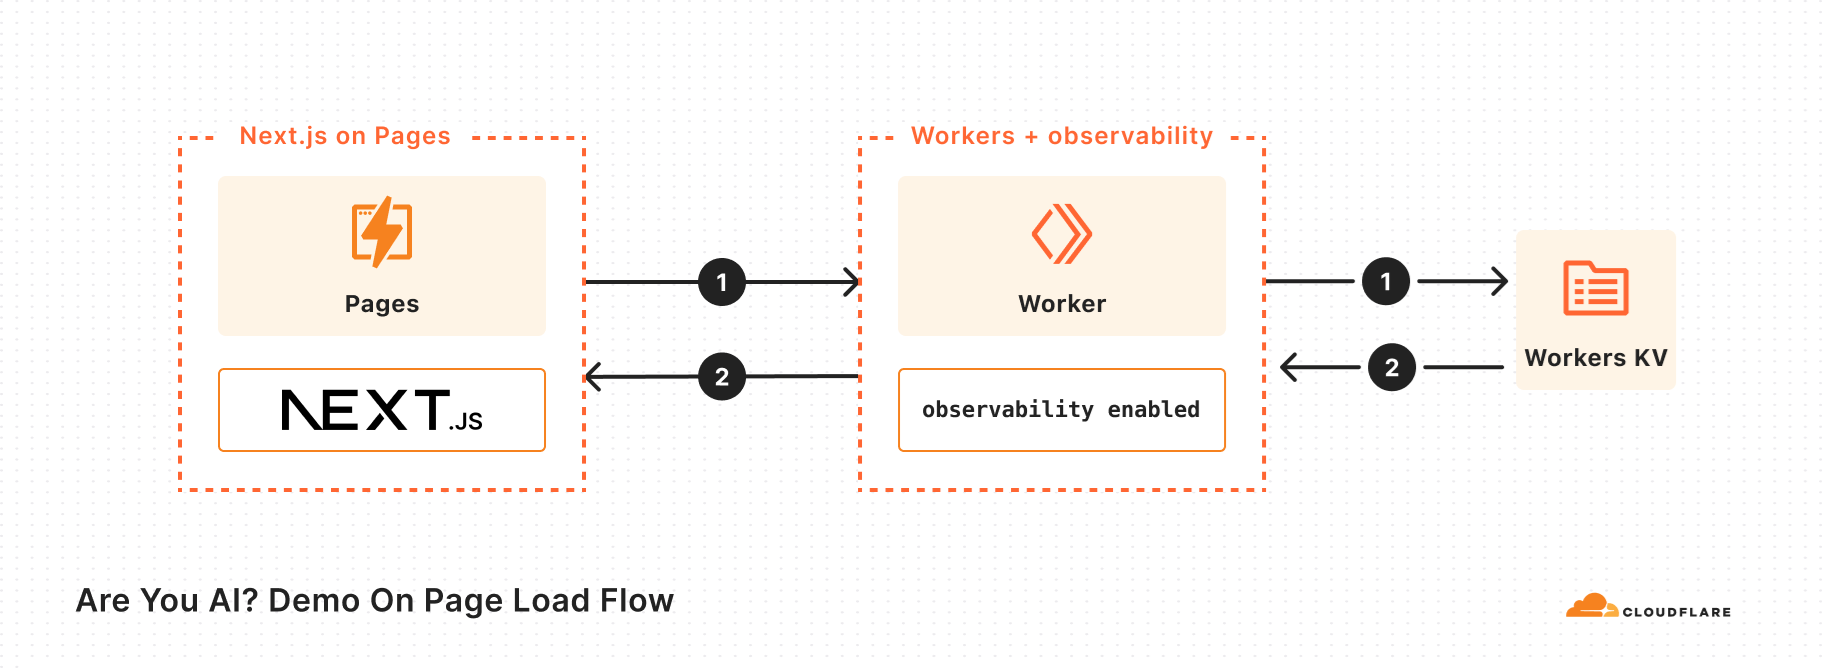
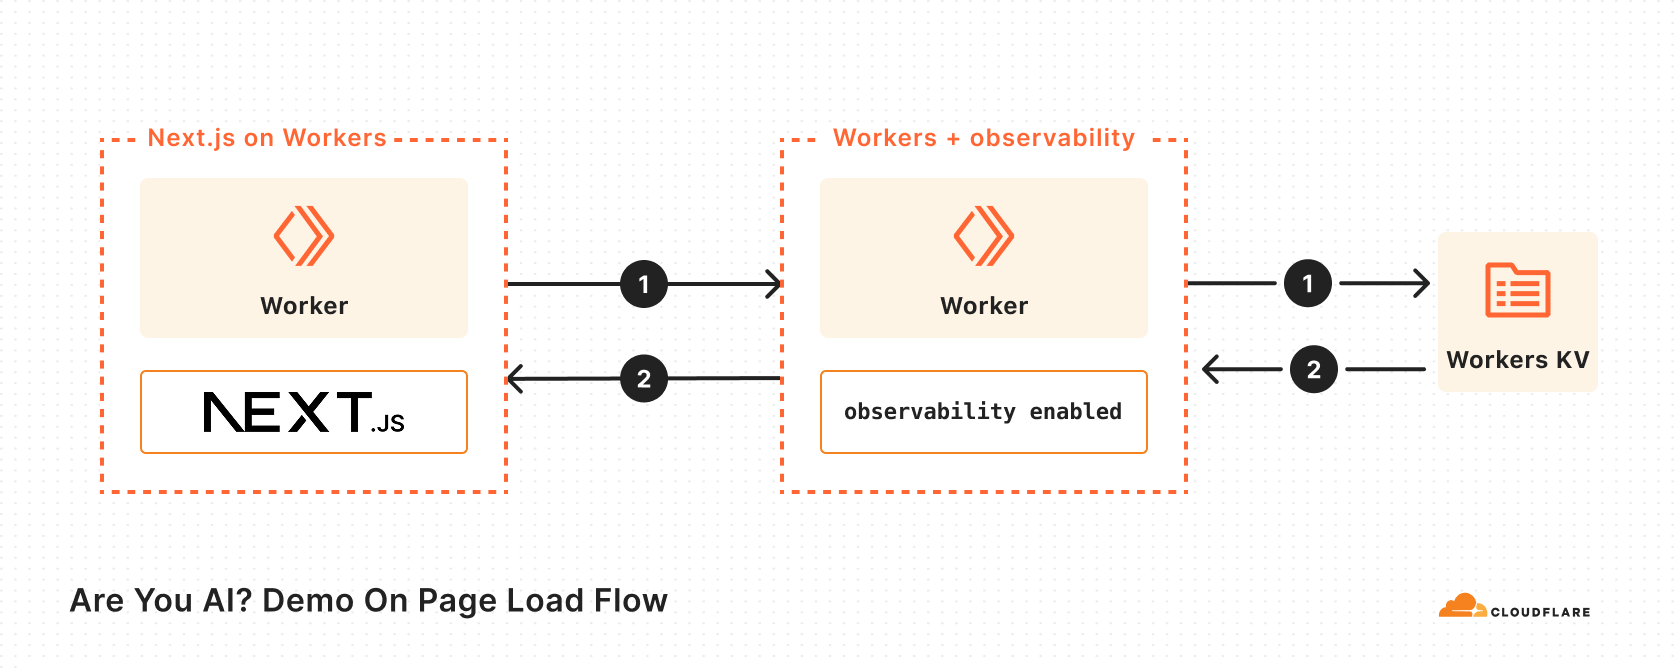
Update architectures to reflect move from Pages to Workers

diff --git a/frontend/content/fullstackAppMarkdown.ts b/frontend/content/fullstackAppMarkdown.ts
@@ -1,6 +1,6 @@
 export const fullstackAppMarkdown = `The Are You AI? app is powered entirely by the Cloudflare Developer Platform. Learn about all the different Cloudflare services that make this app possible.
 
-**Pages**: The Next.js app that powers the Are You AI? website is hosted on Cloudflare Pages.  
+**Workers Assets**: The Next.js app that powers the Are You AI? website is hosted on Cloudflare Workers.  
 **Workers**: The API is built on top of Cloudflare Workers to have a global Serverless API. Cloudflare's in house Observability tool is enabled as well to monitor the API.  
 **Workers AI**: The app makes use of Workers AI to generate images, describe images, and create text-embeddings based on how you and the AI describe the image.  
 **Vectorize**: Cloudflare's Vector database is use to store the text-embeddings and determine the similarity score. Metadata is stored in the Vector database and used to make sure comparisons are are made between the correct embeddings.  

diff --git a/frontend/content/toolTipData.ts b/frontend/content/toolTipData.ts
@@ -5,5 +5,5 @@ export const toolTipData = {
     aiDescription: "Description generated by Workers AI Image to Text model",
     aiGateway: "AI Gateway used to have more observability into AI Workers",
     vectorize: "Vector database cosine similarity used to compare descriptions",
-    pages: "This is a Next.js application hosted on Cloudflare Pages"
+    pages: "This is a Next.js application hosted on Cloudflare Workers"
   };
